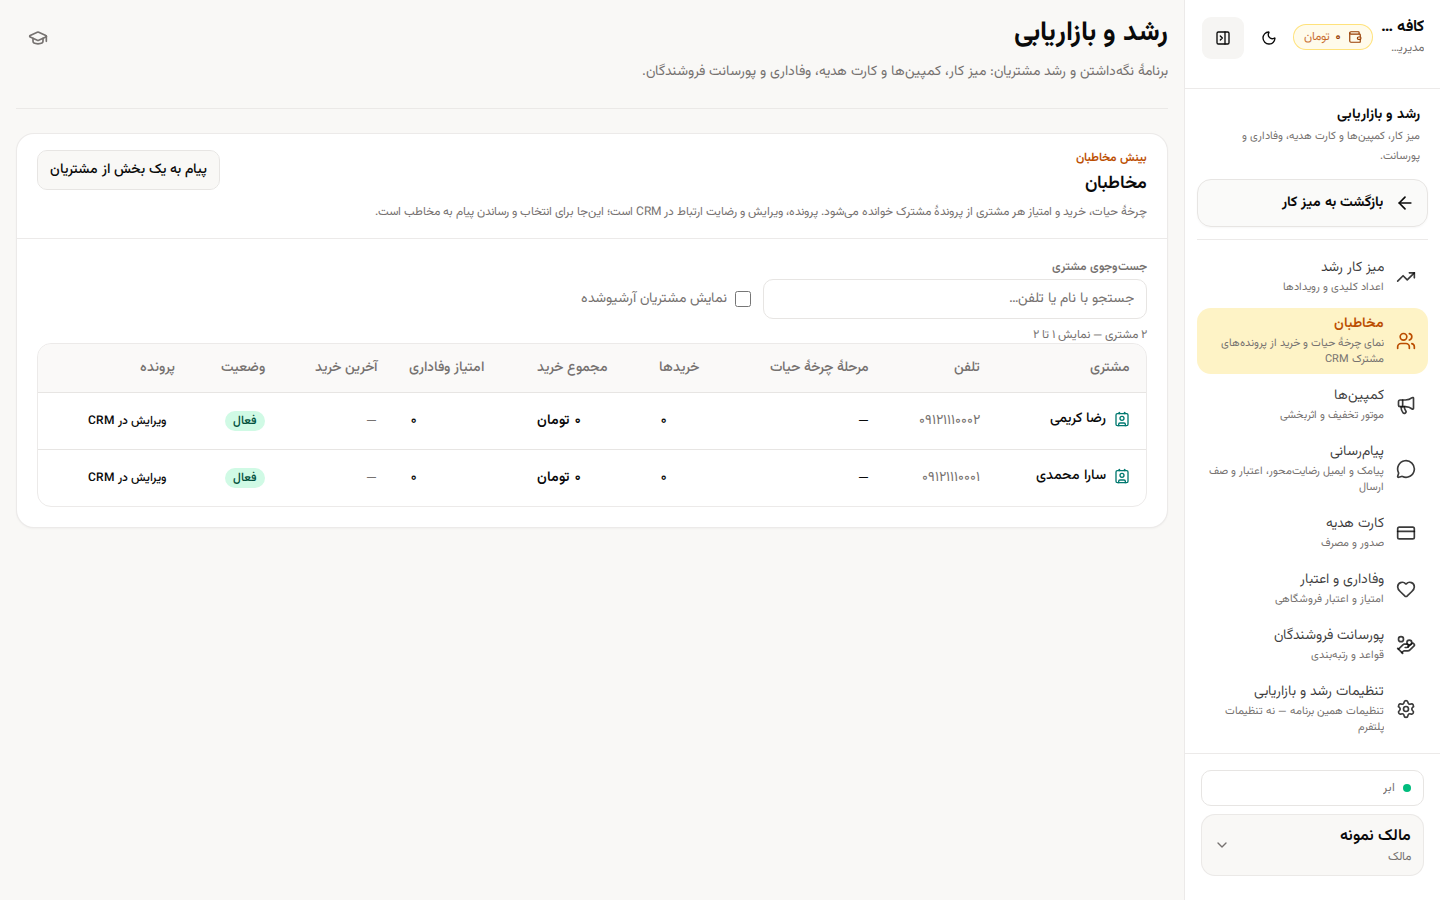
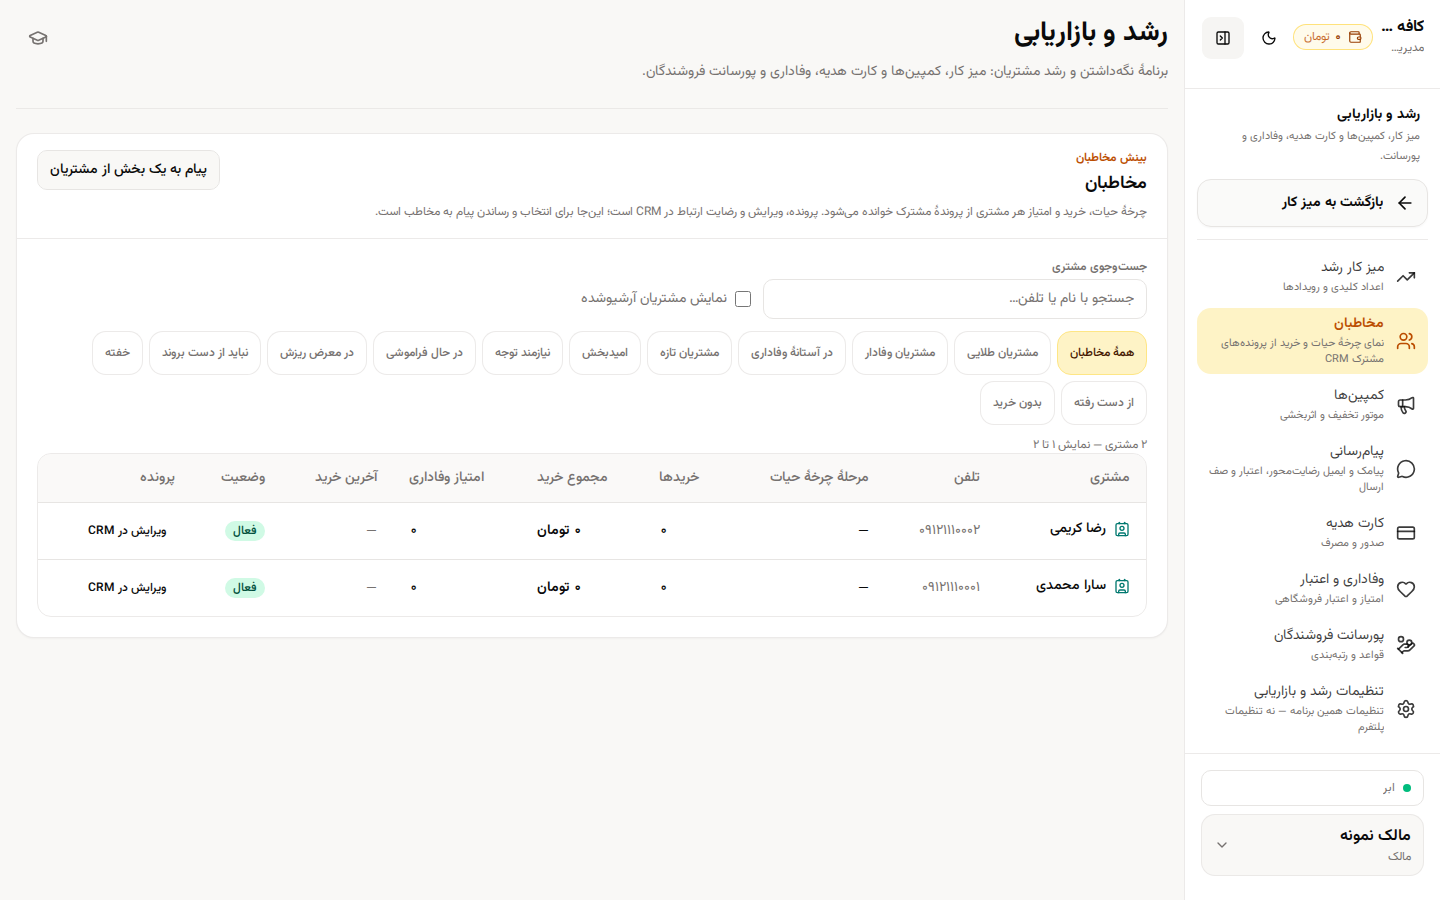
Growth mobile pass: app-name title, swipeable audience chips, Persian digits (#764)
A 360px Playwright pass over every Growth section (overview, customers,
campaigns, messaging, gift cards, loyalty, commission, settings) found no
horizontal overflow, no off-screen elements and no page errors, and three
things to fix:

- The phone top bar titled every app section except the landing page
  «داشبورد»: the global launcher only links each app's landing route, so
  nothing matched. It now falls back to the app shell's own name (Growth,
  CRM, Accounting and Websites alike).
- The ten lifecycle-stage chips wrapped into four rows and pushed the list
  off the first screen; below `sm` they are one swipeable row.
- The settings hint and validation message printed Latin digits.

The audience chips also change the desktop growth-customers screen, so
its baseline is re-recorded on a fresh CI-equivalent fixture; every other
screen still matches.

Claude-Session: https://claude.ai/code/session_01P1NshXNPH7md7qg9fW2foD

diff --git a/src/app/dashboard/dashboard-sidebar.tsx b/src/app/dashboard/dashboard-sidebar.tsx
@@ -680,11 +680,18 @@ function MobileDashboardHeader({
   navItems,
   pathname,
   deploymentProfile,
+  fallbackLabel,
 }: {
   /** Already flattened and contextual to the route currently open. */
   navItems: readonly { label: string; href: string }[];
   pathname: string;
   deploymentProfile: DeploymentProfile;
+  /**
+   * The title when no link matches. Inside an app it is the app's own name:
+   * the global launcher only links each app's landing page, so every other
+   * section of the app used to be titled «داشبورد» on a phone.
+   */
+  fallbackLabel?: string;
 }) {
   const search = useSearchParams();
   // The longest matching href wins, so a detail page keeps its owning section
@@ -696,7 +703,7 @@ function MobileDashboardHeader({
     <header className="sticky top-0 z-30 flex min-h-14 items-center gap-2 border-b border-border/80 bg-card/95 px-2 py-1 backdrop-blur md:hidden">
       <SidebarTrigger className="text-muted-foreground" />
       <div className="min-w-0 flex-1 text-start">
-        <p className="truncate text-sm font-bold text-foreground">{active?.label ?? "داشبورد"}</p>
+        <p className="truncate text-sm font-bold text-foreground">{active?.label ?? fallbackLabel ?? "داشبورد"}</p>
         <p className="mt-0.5 flex items-center gap-1 text-[10px] text-muted-foreground">
           <CalendarDaysIcon className="size-3 shrink-0" aria-hidden="true" />
           <span className="truncate">{today}</span>
@@ -1038,7 +1045,12 @@ export function DashboardSidebar({
   return (
     <SidebarProvider open={mode === "expanded"} onOpenChange={setExpanded}>
       <CloseDrawerOnNavigate pathname={pathname} />
-      <MobileDashboardHeader navItems={headerNavItems} pathname={pathname} deploymentProfile={deploymentProfile} />
+      <MobileDashboardHeader
+        navItems={headerNavItems}
+        pathname={pathname}
+        deploymentProfile={deploymentProfile}
+        fallbackLabel={appShell?.shell.label}
+      />
       <Sidebar
         side="right"
         className={`border-border/80 bg-card text-foreground ${draggingWidth ? "transition-none" : ""}`}

diff --git a/src/app/(app)/growth/settings-section.tsx b/src/app/(app)/growth/settings-section.tsx
@@ -24,6 +24,7 @@ import { crmSectionHref } from "@/app/(app)/crm/crm-routes";
 import { SectionCardSkeleton, StatusBadge } from "@/app/dashboard/page-chrome";
 import { api, ErrorBox, errorMessageOrRaw, Field, InfoBox, inputClass, SecondaryButton } from "@/app/dashboard/ui";
 import { useMoney } from "@/components/money/money-context";
+import { formatPersianNumber } from "@/lib/digits";
 import { ATTRIBUTION_WINDOW_LIMITS, parseGrowthSettingsInput, type GrowthSettings } from "@/lib/growth-settings";
 import { growthSectionHref } from "./growth-routes";
 
@@ -95,7 +96,7 @@ function GrowthWideSettingsForm({
       <div className="grid gap-4 sm:grid-cols-2">
         <Field
           label="بازهٔ انتساب کمپین پیام (روز)"
-          hint={`فروشی که پروموشن اختصاصی کمپین را تا این تعداد روز پس از شروع ارسال اعمال کند، به بازده آن کمپین نسبت داده میشود. خالی یعنی بدون محدودیت (${ATTRIBUTION_WINDOW_LIMITS.min} تا ${ATTRIBUTION_WINDOW_LIMITS.max} روز).`}
+          hint={`فروشی که پروموشن اختصاصی کمپین را تا این تعداد روز پس از شروع ارسال اعمال کند، به بازده آن کمپین نسبت داده میشود. خالی یعنی بدون محدودیت (${formatPersianNumber(ATTRIBUTION_WINDOW_LIMITS.min)} تا ${formatPersianNumber(ATTRIBUTION_WINDOW_LIMITS.max)} روز).`}
         >
           <PersianNumberInput
             inputMode="numeric"

diff --git a/src/app/(app)/growth/customers-section.tsx b/src/app/(app)/growth/customers-section.tsx
@@ -227,8 +227,15 @@ export function GrowthCustomersSection({ selectedCustomerId }: { selectedCustome
           </label>
         </div>
 
-        <FilterChipRow label="بخشبندی بر اساس چرخهٔ حیات" className="mt-3 flex-wrap gap-1.5">
-          <FilterChip selected={stage === ""} onClick={() => setStage("")} className="min-h-11 px-3 text-xs">
+        {/*
+          Ten stages wrap into four rows on a phone and push the list off the
+          first screen, so below `sm` they are one swipeable row instead.
+        */}
+        <FilterChipRow
+          label="بخشبندی بر اساس چرخهٔ حیات"
+          className="-mx-1 mt-3 flex-nowrap gap-1.5 overflow-x-auto px-1 pb-1 sm:flex-wrap sm:overflow-visible"
+        >
+          <FilterChip selected={stage === ""} onClick={() => setStage("")} className="min-h-11 shrink-0 px-3 text-xs">
             همهٔ مخاطبان
           </FilterChip>
           {(Object.keys(LIFECYCLE_STAGES) as LifecycleStage[]).map((key) => (
@@ -236,7 +243,7 @@ export function GrowthCustomersSection({ selectedCustomerId }: { selectedCustome
               key={key}
               selected={stage === key}
               onClick={() => setStage(key)}
-              className="min-h-11 px-3 text-xs"
+              className="min-h-11 shrink-0 px-3 text-xs"
             >
               {LIFECYCLE_STAGES[key].label}
             </FilterChip>

diff --git a/src/lib/growth-settings.ts b/src/lib/growth-settings.ts
@@ -21,6 +21,8 @@
  * and the form both validate through `parseGrowthSettingsInput`.
  */
 
+import { formatPersianNumber } from "./digits";
+
 export interface GrowthSettings {
   attributionWindowDays: number | null;
   discountBudgetRial: number | null;
@@ -68,7 +70,9 @@ export function parseGrowthSettingsInput(body: unknown): GrowthSettingsParse {
     ) {
       value.attributionWindowDays = raw;
     } else {
-      errors.push(`بازهٔ انتساب باید عددی صحیح بین ${ATTRIBUTION_WINDOW_LIMITS.min} تا ${ATTRIBUTION_WINDOW_LIMITS.max} روز باشد.`);
+      errors.push(
+        `بازهٔ انتساب باید عددی صحیح بین ${formatPersianNumber(ATTRIBUTION_WINDOW_LIMITS.min)} تا ${formatPersianNumber(ATTRIBUTION_WINDOW_LIMITS.max)} روز باشد.`,
+      );
     }
   }
 
